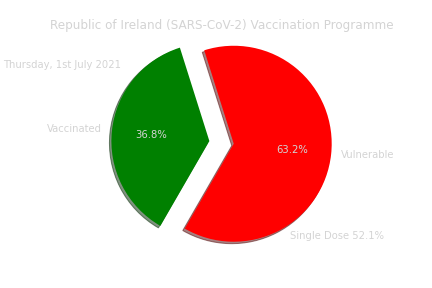
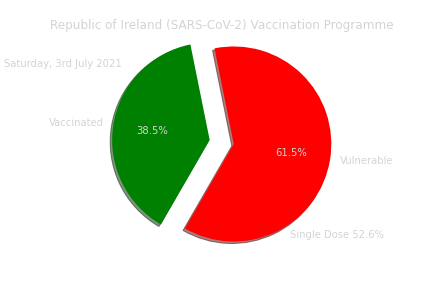
update repository ./covid-19-ireland

diff --git a/README.md b/README.md
@@ -159,7 +159,8 @@ https://github.com/SeanOhAileasa/L8733/blob/master/src/hdp/cta/recursion-iterati
 * { ["**covid-19-ireland**"](https://github.com/SeanOhAileasa/covid-19-ireland/blob/master/src/dataset/covid-19-ireland.csv) : &#x1F4CC; }
 
 ![Republic of Ireland (SARS-CoV-2) Vaccination Programme](https://github.com/SeanOhAileasa/SeanOhAileasa/blob/master/rc/covid-19-ireland/RepublicofIrelandSARS-CoV-2VaccinationProgramme.png?raw=true)
+[Source (HSE)](https://www.hse.ie/eng/services/news/newsfeatures/covid19-updates/integrated-information-service-vaccination-programme-dashboard.html)
 <!-- 
-03/07/2021
+04/07/2021 
 "update repository ./covid-19-ireland" 
 -->
